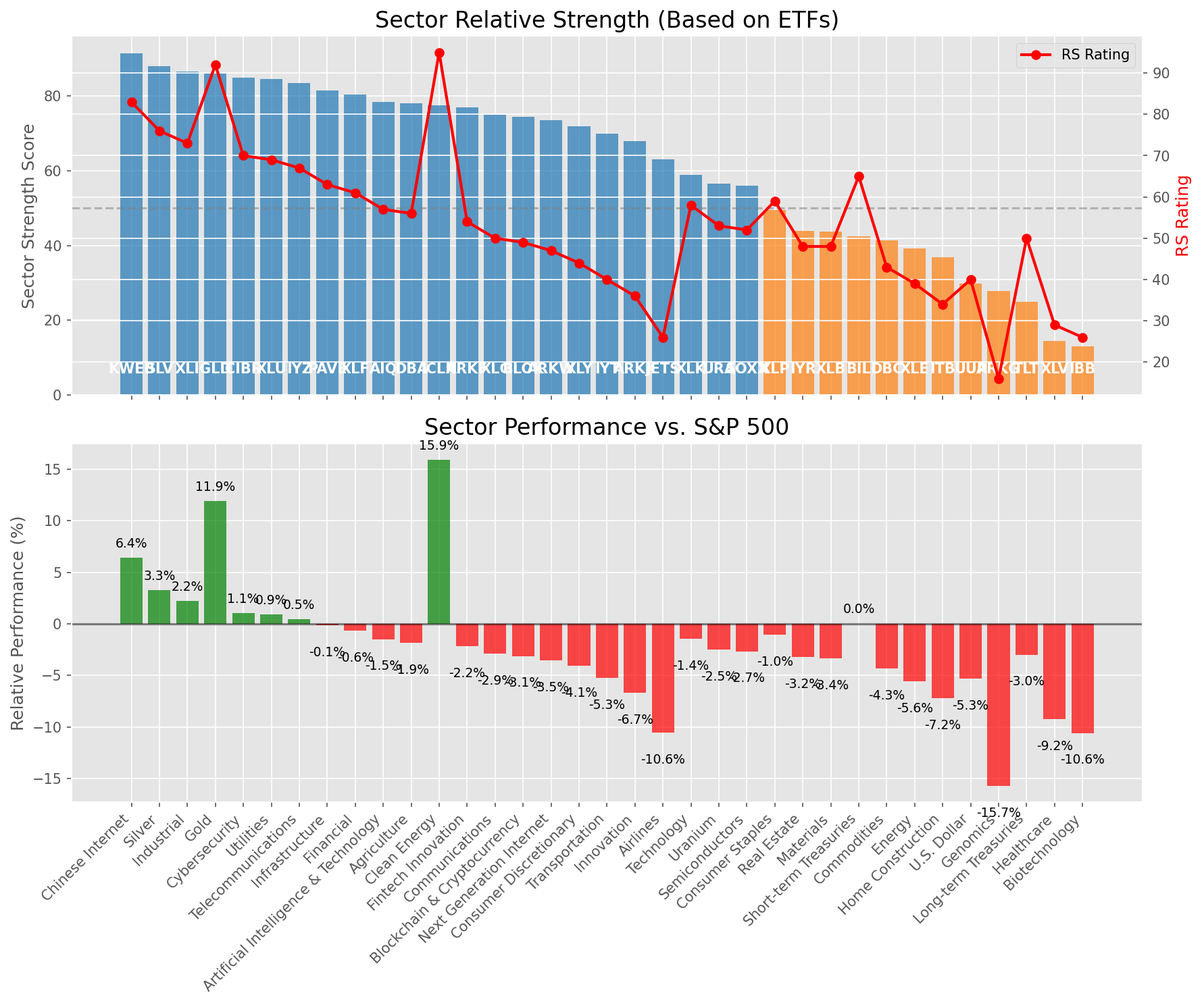
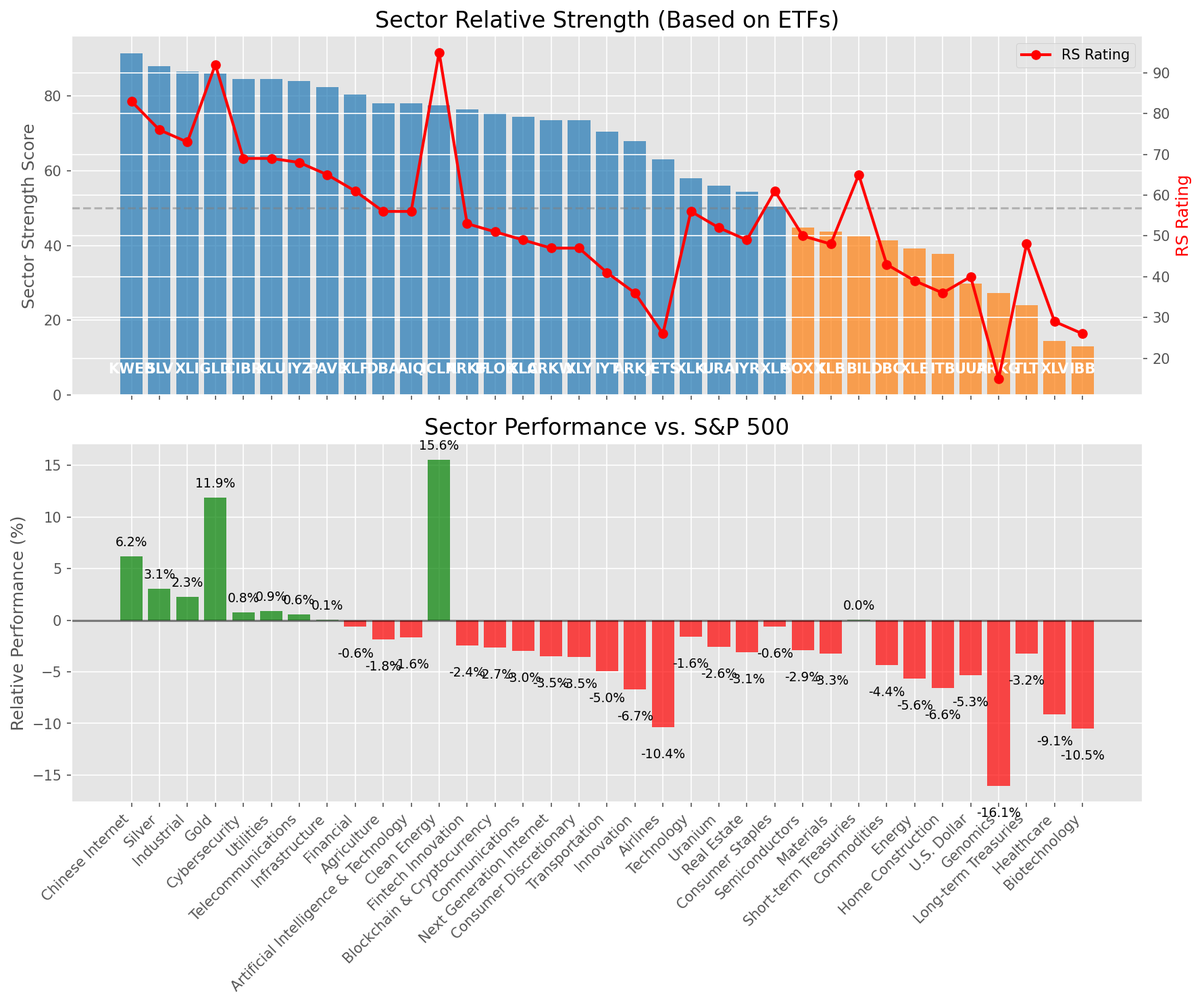
Add market report for 2025-05-13

diff --git a/oneil_relative_strength_report_2025-05-13.md b/oneil_relative_strength_report_2025-05-13.md
@@ -13,7 +13,7 @@
 | **Historical Mean** | 9.41 |
 | **Standard Deviation** | 0.51 |
 | **Z-Score (StdDev from Mean)** | 0.34 |
-| **Total Market Cap** | $289.94 trillion |
+| **Total Market Cap** | $289.74 trillion |
 | **GDP** | $29.98 trillion |
 
 ## **Market Insights**
@@ -49,41 +49,41 @@ Based on William O'Neil's Relative Strength Methodology
 
 | ETF | Strength | RS Rating | Performance | Above Key MAs | Trend | Sector |
 |-----|----------|-----------|-------------|--------------|-------|--------|
-| [KWEB](https://www.tradingview.com/chart/?symbol=KWEB) | 91.5 | 83.0 | 6.40% | 10d ✓, 50d ✓, 200d ✓ | ↗ | Chinese Internet |
-| [SLV](https://www.tradingview.com/chart/?symbol=SLV) | 88.0 | 76.0 | 3.28% | 10d ✓, 50d ✓, 200d ✓ | ↗ | Silver |
-| [XLI](https://www.tradingview.com/chart/?symbol=XLI) | 86.5 | 73.0 | 2.20% | 10d ✓, 50d ✓, 200d ✓ | ↗ | Industrial |
-| [GLD](https://www.tradingview.com/chart/?symbol=GLD) | 86.1 | 92.0 | 11.88% | 10d ✗, 50d ✓, 200d ✓ | ↗ | Gold |
-| [CIBR](https://www.tradingview.com/chart/?symbol=CIBR) | 85.0 | 70.0 | 1.05% | 10d ✓, 50d ✓, 200d ✓ | ↗ | Cybersecurity |
-| [XLU](https://www.tradingview.com/chart/?symbol=XLU) | 84.5 | 69.0 | 0.92% | 10d ✓, 50d ✓, 200d ✓ | ↗ | Utilities |
-| [IYZ](https://www.tradingview.com/chart/?symbol=IYZ) | 83.5 | 67.0 | 0.47% | 10d ✓, 50d ✓, 200d ✓ | ↗ | Telecommunications |
-| [PAVE](https://www.tradingview.com/chart/?symbol=PAVE) | 81.5 | 63.0 | -0.12% | 10d ✓, 50d ✓, 200d ✓ | ↗ | Infrastructure |
-| [XLF](https://www.tradingview.com/chart/?symbol=XLF) | 80.5 | 61.0 | -0.63% | 10d ✓, 50d ✓, 200d ✓ | ↗ | Financial |
-| [AIQ](https://www.tradingview.com/chart/?symbol=AIQ) | 78.5 | 57.0 | -1.47% | 10d ✓, 50d ✓, 200d ✓ | ↗ | Artificial Intelligence & Technology |
-| [DBA](https://www.tradingview.com/chart/?symbol=DBA) | 78.0 | 56.0 | -1.86% | 10d ✓, 50d ✓, 200d ✓ | ↗ | Agriculture |
-| [ICLN](https://www.tradingview.com/chart/?symbol=ICLN) | 77.5 | 95.0 | 15.92% | 10d ✓, 50d ✓, 200d ✓ | ↘ | Clean Energy |
-| [ARKF](https://www.tradingview.com/chart/?symbol=ARKF) | 77.0 | 54.0 | -2.19% | 10d ✓, 50d ✓, 200d ✓ | ↗ | Fintech Innovation |
-| [XLC](https://www.tradingview.com/chart/?symbol=XLC) | 75.0 | 50.0 | -2.87% | 10d ✓, 50d ✓, 200d ✓ | ↗ | Communications |
-| [BLOK](https://www.tradingview.com/chart/?symbol=BLOK) | 74.5 | 49.0 | -3.11% | 10d ✓, 50d ✓, 200d ✓ | ↗ | Blockchain & Cryptocurrency |
-| [ARKW](https://www.tradingview.com/chart/?symbol=ARKW) | 73.5 | 47.0 | -3.54% | 10d ✓, 50d ✓, 200d ✓ | ↗ | Next Generation Internet |
-| [XLY](https://www.tradingview.com/chart/?symbol=XLY) | 72.0 | 44.0 | -4.07% | 10d ✓, 50d ✓, 200d ✓ | ↗ | Consumer Discretionary |
-| [IYT](https://www.tradingview.com/chart/?symbol=IYT) | 70.0 | 40.0 | -5.27% | 10d ✓, 50d ✓, 200d ✓ | ↗ | Transportation |
-| [ARKK](https://www.tradingview.com/chart/?symbol=ARKK) | 68.0 | 36.0 | -6.68% | 10d ✓, 50d ✓, 200d ✓ | ↗ | Innovation |
-| [JETS](https://www.tradingview.com/chart/?symbol=JETS) | 63.0 | 26.0 | -10.56% | 10d ✓, 50d ✓, 200d ✓ | ↗ | Airlines |
-| [XLK](https://www.tradingview.com/chart/?symbol=XLK) | 59.0 | 58.0 | -1.42% | 10d ✓, 50d ✓, 200d ✓ | ↘ | Technology |
-| [URA](https://www.tradingview.com/chart/?symbol=URA) | 56.5 | 53.0 | -2.48% | 10d ✓, 50d ✓, 200d ✓ | ↘ | Uranium |
-| [SOXX](https://www.tradingview.com/chart/?symbol=SOXX) | 56.0 | 52.0 | -2.66% | 10d ✓, 50d ✓, 200d ✓ | ↘ | Semiconductors |
-| [XLP](https://www.tradingview.com/chart/?symbol=XLP) | 49.5 | 59.0 | -1.03% | 10d ✗, 50d ✗, 200d ✗ | ↗ | Consumer Staples |
-| [IYR](https://www.tradingview.com/chart/?symbol=IYR) | 44.0 | 48.0 | -3.21% | 10d ✗, 50d ✗, 200d ✗ | ↗ | Real Estate |
-| [XLB](https://www.tradingview.com/chart/?symbol=XLB) | 43.8 | 48.0 | -3.36% | 10d ✓, 50d ✓, 200d ✗ | ↘ | Materials |
-| [BIL](https://www.tradingview.com/chart/?symbol=BIL) | 42.4 | 65.0 | 0.02% | 10d ✓, 50d ✗, 200d ✗ | ↘ | Short-term Treasuries |
-| [DBC](https://www.tradingview.com/chart/?symbol=DBC) | 41.3 | 43.0 | -4.30% | 10d ✓, 50d ✓, 200d ✗ | ↘ | Commodities |
-| [XLE](https://www.tradingview.com/chart/?symbol=XLE) | 39.3 | 39.0 | -5.57% | 10d ✓, 50d ✓, 200d ✗ | ↘ | Energy |
-| [ITB](https://www.tradingview.com/chart/?symbol=ITB) | 36.8 | 34.0 | -7.19% | 10d ✓, 50d ✓, 200d ✗ | ↘ | Home Construction |
-| [UUP](https://www.tradingview.com/chart/?symbol=UUP) | 29.9 | 40.0 | -5.32% | 10d ✓, 50d ✗, 200d ✗ | ↘ | U.S. Dollar |
-| [ARKG](https://www.tradingview.com/chart/?symbol=ARKG) | 27.8 | 16.0 | -15.71% | 10d ✓, 50d ✓, 200d ✗ | ↘ | Genomics |
-| [TLT](https://www.tradingview.com/chart/?symbol=TLT) | 25.0 | 50.0 | -2.98% | 10d ✗, 50d ✗, 200d ✗ | ↘ | Long-term Treasuries |
-| [XLV](https://www.tradingview.com/chart/?symbol=XLV) | 14.5 | 29.0 | -9.22% | 10d ✗, 50d ✗, 200d ✗ | ↘ | Healthcare |
-| [IBB](https://www.tradingview.com/chart/?symbol=IBB) | 13.0 | 26.0 | -10.57% | 10d ✗, 50d ✗, 200d ✗ | ↘ | Biotechnology |
+| [KWEB](https://www.tradingview.com/chart/?symbol=KWEB) | 91.5 | 83.0 | 6.17% | 10d ✓, 50d ✓, 200d ✓ | ↗ | Chinese Internet |
+| [SLV](https://www.tradingview.com/chart/?symbol=SLV) | 88.0 | 76.0 | 3.07% | 10d ✓, 50d ✓, 200d ✓ | ↗ | Silver |
+| [XLI](https://www.tradingview.com/chart/?symbol=XLI) | 86.5 | 73.0 | 2.26% | 10d ✓, 50d ✓, 200d ✓ | ↗ | Industrial |
+| [GLD](https://www.tradingview.com/chart/?symbol=GLD) | 86.1 | 92.0 | 11.90% | 10d ✗, 50d ✓, 200d ✓ | ↗ | Gold |
+| [CIBR](https://www.tradingview.com/chart/?symbol=CIBR) | 84.5 | 69.0 | 0.75% | 10d ✓, 50d ✓, 200d ✓ | ↗ | Cybersecurity |
+| [XLU](https://www.tradingview.com/chart/?symbol=XLU) | 84.5 | 69.0 | 0.88% | 10d ✓, 50d ✓, 200d ✓ | ↗ | Utilities |
+| [IYZ](https://www.tradingview.com/chart/?symbol=IYZ) | 84.0 | 68.0 | 0.56% | 10d ✓, 50d ✓, 200d ✓ | ↗ | Telecommunications |
+| [PAVE](https://www.tradingview.com/chart/?symbol=PAVE) | 82.5 | 65.0 | 0.06% | 10d ✓, 50d ✓, 200d ✓ | ↗ | Infrastructure |
+| [XLF](https://www.tradingview.com/chart/?symbol=XLF) | 80.5 | 61.0 | -0.64% | 10d ✓, 50d ✓, 200d ✓ | ↗ | Financial |
+| [DBA](https://www.tradingview.com/chart/?symbol=DBA) | 78.0 | 56.0 | -1.85% | 10d ✓, 50d ✓, 200d ✓ | ↗ | Agriculture |
+| [AIQ](https://www.tradingview.com/chart/?symbol=AIQ) | 78.0 | 56.0 | -1.64% | 10d ✓, 50d ✓, 200d ✓ | ↗ | Artificial Intelligence & Technology |
+| [ICLN](https://www.tradingview.com/chart/?symbol=ICLN) | 77.5 | 95.0 | 15.56% | 10d ✓, 50d ✓, 200d ✓ | ↘ | Clean Energy |
+| [ARKF](https://www.tradingview.com/chart/?symbol=ARKF) | 76.5 | 53.0 | -2.45% | 10d ✓, 50d ✓, 200d ✓ | ↗ | Fintech Innovation |
+| [BLOK](https://www.tradingview.com/chart/?symbol=BLOK) | 75.5 | 51.0 | -2.65% | 10d ✓, 50d ✓, 200d ✓ | ↗ | Blockchain & Cryptocurrency |
+| [XLC](https://www.tradingview.com/chart/?symbol=XLC) | 74.5 | 49.0 | -3.00% | 10d ✓, 50d ✓, 200d ✓ | ↗ | Communications |
+| [ARKW](https://www.tradingview.com/chart/?symbol=ARKW) | 73.5 | 47.0 | -3.48% | 10d ✓, 50d ✓, 200d ✓ | ↗ | Next Generation Internet |
+| [XLY](https://www.tradingview.com/chart/?symbol=XLY) | 73.5 | 47.0 | -3.55% | 10d ✓, 50d ✓, 200d ✓ | ↗ | Consumer Discretionary |
+| [IYT](https://www.tradingview.com/chart/?symbol=IYT) | 70.5 | 41.0 | -4.96% | 10d ✓, 50d ✓, 200d ✓ | ↗ | Transportation |
+| [ARKK](https://www.tradingview.com/chart/?symbol=ARKK) | 68.0 | 36.0 | -6.67% | 10d ✓, 50d ✓, 200d ✓ | ↗ | Innovation |
+| [JETS](https://www.tradingview.com/chart/?symbol=JETS) | 63.0 | 26.0 | -10.37% | 10d ✓, 50d ✓, 200d ✓ | ↗ | Airlines |
+| [XLK](https://www.tradingview.com/chart/?symbol=XLK) | 58.0 | 56.0 | -1.62% | 10d ✓, 50d ✓, 200d ✓ | ↘ | Technology |
+| [URA](https://www.tradingview.com/chart/?symbol=URA) | 56.0 | 52.0 | -2.57% | 10d ✓, 50d ✓, 200d ✓ | ↘ | Uranium |
+| [IYR](https://www.tradingview.com/chart/?symbol=IYR) | 54.4 | 49.0 | -3.11% | 10d ✗, 50d ✓, 200d ✗ | ↗ | Real Estate |
+| [XLP](https://www.tradingview.com/chart/?symbol=XLP) | 50.5 | 61.0 | -0.63% | 10d ✗, 50d ✗, 200d ✗ | ↗ | Consumer Staples |
+| [SOXX](https://www.tradingview.com/chart/?symbol=SOXX) | 44.8 | 50.0 | -2.88% | 10d ✓, 50d ✓, 200d ✗ | ↘ | Semiconductors |
+| [XLB](https://www.tradingview.com/chart/?symbol=XLB) | 43.8 | 48.0 | -3.26% | 10d ✓, 50d ✓, 200d ✗ | ↘ | Materials |
+| [BIL](https://www.tradingview.com/chart/?symbol=BIL) | 42.4 | 65.0 | 0.03% | 10d ✓, 50d ✗, 200d ✗ | ↘ | Short-term Treasuries |
+| [DBC](https://www.tradingview.com/chart/?symbol=DBC) | 41.3 | 43.0 | -4.36% | 10d ✓, 50d ✓, 200d ✗ | ↘ | Commodities |
+| [XLE](https://www.tradingview.com/chart/?symbol=XLE) | 39.3 | 39.0 | -5.65% | 10d ✓, 50d ✓, 200d ✗ | ↘ | Energy |
+| [ITB](https://www.tradingview.com/chart/?symbol=ITB) | 37.8 | 36.0 | -6.60% | 10d ✓, 50d ✓, 200d ✗ | ↘ | Home Construction |
+| [UUP](https://www.tradingview.com/chart/?symbol=UUP) | 29.9 | 40.0 | -5.34% | 10d ✓, 50d ✗, 200d ✗ | ↘ | U.S. Dollar |
+| [ARKG](https://www.tradingview.com/chart/?symbol=ARKG) | 27.3 | 15.0 | -16.06% | 10d ✓, 50d ✓, 200d ✗ | ↘ | Genomics |
+| [TLT](https://www.tradingview.com/chart/?symbol=TLT) | 24.0 | 48.0 | -3.24% | 10d ✗, 50d ✗, 200d ✗ | ↘ | Long-term Treasuries |
+| [XLV](https://www.tradingview.com/chart/?symbol=XLV) | 14.5 | 29.0 | -9.09% | 10d ✗, 50d ✗, 200d ✗ | ↘ | Healthcare |
+| [IBB](https://www.tradingview.com/chart/?symbol=IBB) | 13.0 | 26.0 | -10.51% | 10d ✗, 50d ✗, 200d ✗ | ↘ | Biotechnology |
 
 ### **Sector ETF Performance Interpretation**
 
@@ -100,176 +100,172 @@ This table shows the relative strength metrics for different market sectors base
 
 The current market leadership is coming from the following sectors: **Chinese Internet, Silver, Industrial**.
 
-The **Chinese Internet** sector (represented by **KWEB**) is showing particularly strong relative strength with an RS rating of 83.0 and performance of 6.40% vs. the S&P 500. This sector is trading above its 10-day, 50-day, 200-day moving average(s). Investors should consider focusing on high RS stocks within these leading sectors for potential outperformance.
+The **Chinese Internet** sector (represented by **KWEB**) is showing particularly strong relative strength with an RS rating of 83.0 and performance of 6.17% vs. the S&P 500. This sector is trading above its 10-day, 50-day, 200-day moving average(s). Investors should consider focusing on high RS stocks within these leading sectors for potential outperformance.
 
 ---
 
 ## **Buy Recommendations**
 
-The following 76 stocks show exceptional relative strength:
+The following 77 stocks show exceptional relative strength:
 
 | RS Rating | Buy Score | Current Price | Chart | Name | Ticker |
 |-----------|-----------|---------------|-------|------|--------|
-| 100 | 100 | $27.60 | [Chart](https://www.tradingview.com/chart/?symbol=DB) | Deutsche Bank Aktiengesellschaft | DB |
+| 100 | 100 | $49.02 | [Chart](https://www.tradingview.com/chart/?symbol=MRX) | Marex Group plc Ordinary Shares | MRX |
+| 100 | 100 | $27.61 | [Chart](https://www.tradingview.com/chart/?symbol=DB) | Deutsche Bank Aktiengesellschaft | DB |
+| 100 | 100 | $91.56 | [Chart](https://www.tradingview.com/chart/?symbol=SEZL) | Sezzle Inc. Common Stock | SEZL |
+| 100 | 100 | $174.75 | [Chart](https://www.tradingview.com/chart/?symbol=DAVE) | Dave Inc. Class A Common Stock | DAVE |
+| 100 | 100 | $156.93 | [Chart](https://www.tradingview.com/chart/?symbol=NRG) | NRG Energy, Inc. | NRG |
+| 100 | 100 | $23.02 | [Chart](https://www.tradingview.com/chart/?symbol=PRA) | ProAssurance Corporation | PRA |
 | 100 | 100 | $155.30 | [Chart](https://www.tradingview.com/chart/?symbol=PLMR) | Palomar Holdings, Inc. Common stock | PLMR |
-| 100 | 100 | $176.82 | [Chart](https://www.tradingview.com/chart/?symbol=DAVE) | Dave Inc. Class A Common Stock | DAVE |
-| 100 | 100 | $93.42 | [Chart](https://www.tradingview.com/chart/?symbol=SEZL) | Sezzle Inc. Common Stock | SEZL |
-| 100 | 100 | $49.11 | [Chart](https://www.tradingview.com/chart/?symbol=MRX) | Marex Group plc Ordinary Shares | MRX |
-| 100 | 100 | $156.87 | [Chart](https://www.tradingview.com/chart/?symbol=NRG) | NRG Energy, Inc. | NRG |
-| 100 | 100 | $23.01 | [Chart](https://www.tradingview.com/chart/?symbol=PRA) | ProAssurance Corporation | PRA |
-| 99 | 100 | $152.31 | [Chart](https://www.tradingview.com/chart/?symbol=ROOT) | Root, Inc. Class A Common Stock | ROOT |
-| 99 | 100 | $417.28 | [Chart](https://www.tradingview.com/chart/?symbol=MSTR) | MicroStrategy Inc | MSTR |
-| 99 | 100 | $24.01 | [Chart](https://www.tradingview.com/chart/?symbol=CRK) | Comstock Resources, Inc. | CRK |
-| 99 | 100 | $70.07 | [Chart](https://www.tradingview.com/chart/?symbol=ULS) | UL Solutions Inc. | ULS |
-| 99 | 100 | $34.73 | [Chart](https://www.tradingview.com/chart/?symbol=AHR) | American Healthcare REIT, Inc. | AHR |
-| 99 | 100 | $24.16 | [Chart](https://www.tradingview.com/chart/?symbol=GRND) | Grindr Inc. | GRND |
+| 99 | 100 | $418.66 | [Chart](https://www.tradingview.com/chart/?symbol=MSTR) | MicroStrategy Inc | MSTR |
+| 99 | 100 | $150.44 | [Chart](https://www.tradingview.com/chart/?symbol=ROOT) | Root, Inc. Class A Common Stock | ROOT |
+| 99 | 100 | $23.86 | [Chart](https://www.tradingview.com/chart/?symbol=CRK) | Comstock Resources, Inc. | CRK |
+| 99 | 100 | $70.65 | [Chart](https://www.tradingview.com/chart/?symbol=ULS) | UL Solutions Inc. | ULS |
+| 99 | 100 | $34.66 | [Chart](https://www.tradingview.com/chart/?symbol=AHR) | American Healthcare REIT, Inc. | AHR |
+| 99 | 100 | $23.87 | [Chart](https://www.tradingview.com/chart/?symbol=GRND) | Grindr Inc. | GRND |
 | 98 | 100 | $131.44 | [Chart](https://www.tradingview.com/chart/?symbol=VSEC) | VSE Corp | VSEC |
-| 98 | 100 | $159.48 | [Chart](https://www.tradingview.com/chart/?symbol=HWM) | Howmet Aerospace Inc. | HWM |
-| 98 | 100 | $38.27 | [Chart](https://www.tradingview.com/chart/?symbol=PAY) | Paymentus Holdings, Inc. | PAY |
-| 98 | 100 | $41.15 | [Chart](https://www.tradingview.com/chart/?symbol=EWP) | iShares MSCI Spain ETF | EWP |
-| 97 | 100 | $223.76 | [Chart](https://www.tradingview.com/chart/?symbol=CRS) | Carpenter Technology Corp | CRS |
-| 97 | 100 | $128.70 | [Chart](https://www.tradingview.com/chart/?symbol=ATGE) | Adtalem Global Education Inc. Common Shares | ATGE |
-| 97 | 100 | $154.31 | [Chart](https://www.tradingview.com/chart/?symbol=SE) | Sea Limited American Depositary Shares, each representing one Class A Ordinary Share | SE |
-| 97 | 100 | $127.35 | [Chart](https://www.tradingview.com/chart/?symbol=COOP) | Mr. Cooper Group Inc. Common Stock | COOP |
-| 96 | 100 | $117.42 | [Chart](https://www.tradingview.com/chart/?symbol=EHC) | Encompass Health Corporation Common Stock | EHC |
-| 96 | 100 | $49.13 | [Chart](https://www.tradingview.com/chart/?symbol=ERJ) | Embraer S.A. | ERJ |
-| 96 | 100 | $63.01 | [Chart](https://www.tradingview.com/chart/?symbol=HOOD) | Robinhood Markets, Inc. Class A Common Stock | HOOD |
-| 96 | 100 | $30.80 | [Chart](https://www.tradingview.com/chart/?symbol=EUFN) | iShares MSCI Europe Financials ETF | EUFN |
-| 95 | 100 | $40.60 | [Chart](https://www.tradingview.com/chart/?symbol=EWG) | iShares MSCI Germany ETF | EWG |
-| 95 | 100 | $130.13 | [Chart](https://www.tradingview.com/chart/?symbol=PLTR) | Palantir Technologies Inc. Class A Common Stock | PLTR |
-| 95 | 100 | $28.02 | [Chart](https://www.tradingview.com/chart/?symbol=FMS) | Fresenius Medical Care AG | FMS |
-| 95 | 100 | $33.62 | [Chart](https://www.tradingview.com/chart/?symbol=SLM) | SLM Corporation | SLM |
-| 95 | 100 | $83.61 | [Chart](https://www.tradingview.com/chart/?symbol=RBRK) | Rubrik, Inc. | RBRK |
-| 95 | 100 | $76.69 | [Chart](https://www.tradingview.com/chart/?symbol=RBLX) | Roblox Corporation | RBLX |
-| 94 | 100 | $1145.07 | [Chart](https://www.tradingview.com/chart/?symbol=NFLX) | NetFlix Inc | NFLX |
-| 94 | 100 | $40.85 | [Chart](https://www.tradingview.com/chart/?symbol=AB) | AllianceBernstein Holding, L.P. | AB |
-| 93 | 100 | $87.00 | [Chart](https://www.tradingview.com/chart/?symbol=TGLS) | Tecnoglass Inc. | TGLS |
-| 93 | 100 | $46.55 | [Chart](https://www.tradingview.com/chart/?symbol=QFIN) | Qifu Technology, Inc. American Depositary Shares | QFIN |
-| 93 | 100 | $22.41 | [Chart](https://www.tradingview.com/chart/?symbol=LAUR) | Laureate Education, Inc. Common Stock | LAUR |
-| 93 | 100 | $61.48 | [Chart](https://www.tradingview.com/chart/?symbol=CHEF) | The Chef's Warehouse Inc | CHEF |
-| 93 | 100 | $31.62 | [Chart](https://www.tradingview.com/chart/?symbol=UTI) | Universal Technical Institute, Inc. | UTI |
-| 92 | 100 | $317.40 | [Chart](https://www.tradingview.com/chart/?symbol=PODD) | Insulet Corporation | PODD |
-| 92 | 100 | $23.87 | [Chart](https://www.tradingview.com/chart/?symbol=SRAD) | Sportradar Group AG Class A Ordinary Shares | SRAD |
-| 91 | 100 | $104.00 | [Chart](https://www.tradingview.com/chart/?symbol=RBA) | RB Global, Inc. | RBA |
-| 91 | 100 | $298.15 | [Chart](https://www.tradingview.com/chart/?symbol=PEN) | Penumbra, Inc. | PEN |
-| 91 | 100 | $17.00 | [Chart](https://www.tradingview.com/chart/?symbol=BCS) | Barclays PLC | BCS |
-| 91 | 100 | $44.77 | [Chart](https://www.tradingview.com/chart/?symbol=TOST) | Toast, Inc. | TOST |
-| 90 | 100 | $95.38 | [Chart](https://www.tradingview.com/chart/?symbol=HEES) | H&E Equipment Services, Inc. | HEES |
-| 90 | 100 | $31.26 | [Chart](https://www.tradingview.com/chart/?symbol=PRDO) | Perdoceo Education Corporation | PRDO |
-| 90 | 100 | $70.66 | [Chart](https://www.tradingview.com/chart/?symbol=BROS) | Dutch Bros Inc. | BROS |
-| 89 | 100 | $296.92 | [Chart](https://www.tradingview.com/chart/?symbol=CVNA) | Carvana Co. | CVNA |
-| 88 | 100 | $25.16 | [Chart](https://www.tradingview.com/chart/?symbol=EWS) | iShares MSCI Singapore ETF | EWS |
-| 87 | 100 | $81.26 | [Chart](https://www.tradingview.com/chart/?symbol=UNM) | Unum Group | UNM |
-| 89 | 99 | $52.07 | [Chart](https://www.tradingview.com/chart/?symbol=EPR) | EPR Properties | EPR |
+| 98 | 100 | $41.17 | [Chart](https://www.tradingview.com/chart/?symbol=EWP) | iShares MSCI Spain ETF | EWP |
+| 98 | 100 | $223.65 | [Chart](https://www.tradingview.com/chart/?symbol=CRS) | Carpenter Technology Corp | CRS |
+| 98 | 100 | $159.67 | [Chart](https://www.tradingview.com/chart/?symbol=HWM) | Howmet Aerospace Inc. | HWM |
+| 98 | 100 | $38.18 | [Chart](https://www.tradingview.com/chart/?symbol=PAY) | Paymentus Holdings, Inc. | PAY |
+| 97 | 100 | $128.01 | [Chart](https://www.tradingview.com/chart/?symbol=ATGE) | Adtalem Global Education Inc. Common Shares | ATGE |
+| 97 | 100 | $117.96 | [Chart](https://www.tradingview.com/chart/?symbol=EHC) | Encompass Health Corporation Common Stock | EHC |
+| 97 | 100 | $127.53 | [Chart](https://www.tradingview.com/chart/?symbol=COOP) | Mr. Cooper Group Inc. Common Stock | COOP |
+| 97 | 100 | $153.38 | [Chart](https://www.tradingview.com/chart/?symbol=SE) | Sea Limited American Depositary Shares, each representing one Class A Ordinary Share | SE |
+| 97 | 100 | $30.83 | [Chart](https://www.tradingview.com/chart/?symbol=EUFN) | iShares MSCI Europe Financials ETF | EUFN |
+| 96 | 100 | $62.59 | [Chart](https://www.tradingview.com/chart/?symbol=HOOD) | Robinhood Markets, Inc. Class A Common Stock | HOOD |
+| 96 | 100 | $49.24 | [Chart](https://www.tradingview.com/chart/?symbol=ERJ) | Embraer S.A. | ERJ |
+| 95 | 100 | $40.62 | [Chart](https://www.tradingview.com/chart/?symbol=EWG) | iShares MSCI Germany ETF | EWG |
+| 95 | 100 | $129.18 | [Chart](https://www.tradingview.com/chart/?symbol=PLTR) | Palantir Technologies Inc. Class A Common Stock | PLTR |
+| 95 | 100 | $28.05 | [Chart](https://www.tradingview.com/chart/?symbol=FMS) | Fresenius Medical Care AG | FMS |
+| 95 | 100 | $33.65 | [Chart](https://www.tradingview.com/chart/?symbol=SLM) | SLM Corporation | SLM |
+| 95 | 100 | $129.04 | [Chart](https://www.tradingview.com/chart/?symbol=HIG) | The Hartford Insurance Group, Inc. | HIG |
+| 95 | 100 | $76.45 | [Chart](https://www.tradingview.com/chart/?symbol=RBLX) | Roblox Corporation | RBLX |
+| 94 | 100 | $40.84 | [Chart](https://www.tradingview.com/chart/?symbol=AB) | AllianceBernstein Holding, L.P. | AB |
+| 94 | 100 | $83.03 | [Chart](https://www.tradingview.com/chart/?symbol=RBRK) | Rubrik, Inc. | RBRK |
+| 94 | 100 | $61.83 | [Chart](https://www.tradingview.com/chart/?symbol=CHEF) | The Chef's Warehouse Inc | CHEF |
+| 93 | 100 | $22.49 | [Chart](https://www.tradingview.com/chart/?symbol=LAUR) | Laureate Education, Inc. Common Stock | LAUR |
+| 93 | 100 | $46.51 | [Chart](https://www.tradingview.com/chart/?symbol=QFIN) | Qifu Technology, Inc. American Depositary Shares | QFIN |
+| 93 | 100 | $87.41 | [Chart](https://www.tradingview.com/chart/?symbol=TGLS) | Tecnoglass Inc. | TGLS |
+| 93 | 100 | $1141.06 | [Chart](https://www.tradingview.com/chart/?symbol=NFLX) | NetFlix Inc | NFLX |
+| 92 | 100 | $300.56 | [Chart](https://www.tradingview.com/chart/?symbol=PEN) | Penumbra, Inc. | PEN |
+| 92 | 100 | $31.41 | [Chart](https://www.tradingview.com/chart/?symbol=UTI) | Universal Technical Institute, Inc. | UTI |
+| 91 | 100 | $316.02 | [Chart](https://www.tradingview.com/chart/?symbol=PODD) | Insulet Corporation | PODD |
+| 91 | 100 | $23.68 | [Chart](https://www.tradingview.com/chart/?symbol=SRAD) | Sportradar Group AG Class A Ordinary Shares | SRAD |
+| 91 | 100 | $17.01 | [Chart](https://www.tradingview.com/chart/?symbol=BCS) | Barclays PLC | BCS |
+| 91 | 100 | $44.37 | [Chart](https://www.tradingview.com/chart/?symbol=TOST) | Toast, Inc. | TOST |
+| 91 | 100 | $104.31 | [Chart](https://www.tradingview.com/chart/?symbol=RBA) | RB Global, Inc. | RBA |
+| 90 | 100 | $31.30 | [Chart](https://www.tradingview.com/chart/?symbol=PRDO) | Perdoceo Education Corporation | PRDO |
+| 90 | 100 | $70.50 | [Chart](https://www.tradingview.com/chart/?symbol=BROS) | Dutch Bros Inc. | BROS |
+| 89 | 100 | $95.34 | [Chart](https://www.tradingview.com/chart/?symbol=HEES) | H&E Equipment Services, Inc. | HEES |
+| 88 | 100 | $729.92 | [Chart](https://www.tradingview.com/chart/?symbol=AXON) | Axon Enterprise, Inc. Common Stock | AXON |
+| 88 | 100 | $25.17 | [Chart](https://www.tradingview.com/chart/?symbol=EWS) | iShares MSCI Singapore ETF | EWS |
+| 89 | 99 | $52.13 | [Chart](https://www.tradingview.com/chart/?symbol=EPR) | EPR Properties | EPR |
+| 88 | 99 | $296.48 | [Chart](https://www.tradingview.com/chart/?symbol=CVNA) | Carvana Co. | CVNA |
 | 87 | 99 | $195.73 | [Chart](https://www.tradingview.com/chart/?symbol=LOPE) | Grand Canyon Education, Inc | LOPE |
-| 87 | 99 | $725.67 | [Chart](https://www.tradingview.com/chart/?symbol=AXON) | Axon Enterprise, Inc. Common Stock | AXON |
-| 89 | 98 | $29.41 | [Chart](https://www.tradingview.com/chart/?symbol=HODL) | VanEck Bitcoin ETF | HODL |
-| 89 | 98 | $59.10 | [Chart](https://www.tradingview.com/chart/?symbol=IBIT) | iShares Bitcoin Trust ETF | IBIT |
-| 88 | 98 | $17.56 | [Chart](https://www.tradingview.com/chart/?symbol=MIR) | Mirion Technologies, Inc. | MIR |
-| 87 | 97 | $13.32 | [Chart](https://www.tradingview.com/chart/?symbol=CNH) | CNH INDUSTRIAL N.V. | CNH |
-| 87 | 97 | $63.41 | [Chart](https://www.tradingview.com/chart/?symbol=GGAL) | Grupo Financiero Galicia SA | GGAL |
-| 86 | 97 | $67.91 | [Chart](https://www.tradingview.com/chart/?symbol=CTVA) | Corteva, Inc. Common Stock | CTVA |
-| 85 | 97 | $58.49 | [Chart](https://www.tradingview.com/chart/?symbol=HSBC) | HSBC Holdings PLC | HSBC |
-| 86 | 96 | $35.90 | [Chart](https://www.tradingview.com/chart/?symbol=FXI) | iShares China Large-Cap ETF | FXI |
-| 85 | 95 | $5265.94 | [Chart](https://www.tradingview.com/chart/?symbol=BKNG) | Booking Holdings Inc. Common Stock | BKNG |
-| 84 | 95 | $23.46 | [Chart](https://www.tradingview.com/chart/?symbol=BTSG) | BrightSpring Health Services, Inc. Common Stock | BTSG |
-| 84 | 95 | $203.25 | [Chart](https://www.tradingview.com/chart/?symbol=BAP) | Credicorp LTD | BAP |
-| 84 | 95 | $74.58 | [Chart](https://www.tradingview.com/chart/?symbol=USFD) | US Foods Holding Corp. | USFD |
-| 83 | 95 | $206.28 | [Chart](https://www.tradingview.com/chart/?symbol=DRI) | Darden Restaurants, Inc. | DRI |
-| 83 | 94 | $167.46 | [Chart](https://www.tradingview.com/chart/?symbol=ITA) | iShares U.S. Aerospace & Defense ETF | ITA |
-| 83 | 94 | $221.87 | [Chart](https://www.tradingview.com/chart/?symbol=GE) | GE Aerospace | GE |
-| 83 | 94 | $31.32 | [Chart](https://www.tradingview.com/chart/?symbol=AS) | Amer Sports, Inc. | AS |
-| 84 | 93 | $30.06 | [Chart](https://www.tradingview.com/chart/?symbol=TGS) | Transportadora de Gas del Sur S.A. ADS | TGS |
-| 80 | 93 | $217.54 | [Chart](https://www.tradingview.com/chart/?symbol=IDCC) | InterDigital, Inc. | IDCC |
-| 82 | 92 | $57.31 | [Chart](https://www.tradingview.com/chart/?symbol=IGF) | iShares Global Infrastructure ETF | IGF |
-| 81 | 92 | $205.36 | [Chart](https://www.tradingview.com/chart/?symbol=DFS) | Discover Financial Services | DFS |
-| 82 | 91 | $22.33 | [Chart](https://www.tradingview.com/chart/?symbol=KAR) | OPENLANE, Inc | KAR |
-| 81 | 91 | $13.07 | [Chart](https://www.tradingview.com/chart/?symbol=MUFG) | Mitsubishi UFJ Financial Group, Inc. | MUFG |
-| 80 | 90 | $58.49 | [Chart](https://www.tradingview.com/chart/?symbol=BAM) | Brookfield Asset Management Ltd. | BAM |
+| 86 | 99 | $81.10 | [Chart](https://www.tradingview.com/chart/?symbol=UNM) | Unum Group | UNM |
+| 89 | 98 | $59.35 | [Chart](https://www.tradingview.com/chart/?symbol=IBIT) | iShares Bitcoin Trust ETF | IBIT |
+| 89 | 98 | $29.53 | [Chart](https://www.tradingview.com/chart/?symbol=HODL) | VanEck Bitcoin ETF | HODL |
+| 87 | 98 | $68.14 | [Chart](https://www.tradingview.com/chart/?symbol=CTVA) | Corteva, Inc. Common Stock | CTVA |
+| 87 | 97 | $13.31 | [Chart](https://www.tradingview.com/chart/?symbol=CNH) | CNH INDUSTRIAL N.V. | CNH |
+| 87 | 97 | $17.53 | [Chart](https://www.tradingview.com/chart/?symbol=MIR) | Mirion Technologies, Inc. | MIR |
+| 86 | 97 | $206.05 | [Chart](https://www.tradingview.com/chart/?symbol=BAP) | Credicorp LTD | BAP |
+| 86 | 96 | $35.88 | [Chart](https://www.tradingview.com/chart/?symbol=FXI) | iShares China Large-Cap ETF | FXI |
+| 86 | 96 | $5293.07 | [Chart](https://www.tradingview.com/chart/?symbol=BKNG) | Booking Holdings Inc. Common Stock | BKNG |
+| 84 | 96 | $58.40 | [Chart](https://www.tradingview.com/chart/?symbol=HSBC) | HSBC Holdings PLC | HSBC |
+| 83 | 96 | $220.83 | [Chart](https://www.tradingview.com/chart/?symbol=IDCC) | InterDigital, Inc. | IDCC |
+| 85 | 95 | $62.78 | [Chart](https://www.tradingview.com/chart/?symbol=GGAL) | Grupo Financiero Galicia SA | GGAL |
+| 84 | 95 | $23.50 | [Chart](https://www.tradingview.com/chart/?symbol=BTSG) | BrightSpring Health Services, Inc. Common Stock | BTSG |
+| 84 | 95 | $74.57 | [Chart](https://www.tradingview.com/chart/?symbol=USFD) | US Foods Holding Corp. | USFD |
+| 83 | 95 | $206.40 | [Chart](https://www.tradingview.com/chart/?symbol=DRI) | Darden Restaurants, Inc. | DRI |
+| 83 | 94 | $167.29 | [Chart](https://www.tradingview.com/chart/?symbol=ITA) | iShares U.S. Aerospace & Defense ETF | ITA |
+| 82 | 93 | $221.23 | [Chart](https://www.tradingview.com/chart/?symbol=GE) | GE Aerospace | GE |
+| 82 | 93 | $31.22 | [Chart](https://www.tradingview.com/chart/?symbol=AS) | Amer Sports, Inc. | AS |
+| 82 | 92 | $57.28 | [Chart](https://www.tradingview.com/chart/?symbol=IGF) | iShares Global Infrastructure ETF | IGF |
+| 82 | 91 | $22.36 | [Chart](https://www.tradingview.com/chart/?symbol=KAR) | OPENLANE, Inc | KAR |
+| 82 | 91 | $29.80 | [Chart](https://www.tradingview.com/chart/?symbol=TGS) | Transportadora de Gas del Sur S.A. ADS | TGS |
+| 81 | 91 | $58.61 | [Chart](https://www.tradingview.com/chart/?symbol=BAM) | Brookfield Asset Management Ltd. | BAM |
+| 80 | 91 | $204.42 | [Chart](https://www.tradingview.com/chart/?symbol=DFS) | Discover Financial Services | DFS |
+| 80 | 90 | $13.07 | [Chart](https://www.tradingview.com/chart/?symbol=MUFG) | Mitsubishi UFJ Financial Group, Inc. | MUFG |
 
 ---
 
 
 ## **Sell Recommendations**
 
-The following 74 stocks show deteriorating relative strength:
+The following 69 stocks show deteriorating relative strength:
 
 | RS Rating | Sell Score | Current Price | Chart | Name | Ticker |
 |-----------|------------|---------------|-------|------|--------|
 | 1 | 100 | $10.18 | [Chart](https://www.tradingview.com/chart/?symbol=NRIX) | Nurix Therapeutics, Inc. Common stock | NRIX |
-| 1 | 100 | $19.40 | [Chart](https://www.tradingview.com/chart/?symbol=BHVN) | Biohaven Ltd. | BHVN |
-| 3 | 100 | $13.04 | [Chart](https://www.tradingview.com/chart/?symbol=MNRO) | Monro, Inc. Common Stock | MNRO |
-| 3 | 100 | $13.18 | [Chart](https://www.tradingview.com/chart/?symbol=FL) | Foot Locker, Inc. | FL |
-| 4 | 100 | $10.79 | [Chart](https://www.tradingview.com/chart/?symbol=LSPD) | Lightspeed Commerce Inc. | LSPD |
-| 4 | 100 | $12.20 | [Chart](https://www.tradingview.com/chart/?symbol=ARCT) | Arcturus Therapeutics Holdings Inc. Common Stock | ARCT |
-| 4 | 100 | $30.32 | [Chart](https://www.tradingview.com/chart/?symbol=CRTO) | Criteo S.A. | CRTO |
-| 4 | 100 | $27.39 | [Chart](https://www.tradingview.com/chart/?symbol=JACK) | Jack in the Box Inc. | JACK |
+| 1 | 100 | $19.39 | [Chart](https://www.tradingview.com/chart/?symbol=BHVN) | Biohaven Ltd. | BHVN |
+| 2 | 100 | $12.90 | [Chart](https://www.tradingview.com/chart/?symbol=MNRO) | Monro, Inc. Common Stock | MNRO |
+| 3 | 100 | $13.13 | [Chart](https://www.tradingview.com/chart/?symbol=FL) | Foot Locker, Inc. | FL |
+| 4 | 100 | $10.76 | [Chart](https://www.tradingview.com/chart/?symbol=LSPD) | Lightspeed Commerce Inc. | LSPD |
+| 4 | 100 | $10.30 | [Chart](https://www.tradingview.com/chart/?symbol=HPK) | HighPeak Energy, Inc. Common Stock | HPK |
+| 4 | 100 | $30.10 | [Chart](https://www.tradingview.com/chart/?symbol=CRTO) | Criteo S.A. | CRTO |
+| 4 | 100 | $12.10 | [Chart](https://www.tradingview.com/chart/?symbol=ARCT) | Arcturus Therapeutics Holdings Inc. Common Stock | ARCT |
 | 5 | 100 | $28.01 | [Chart](https://www.tradingview.com/chart/?symbol=SRDX) | Surmodics, Inc. Common Stock | SRDX |
-| 5 | 100 | $33.15 | [Chart](https://www.tradingview.com/chart/?symbol=AAP) | ADVANCE AUTO PARTS INC | AAP |
-| 5 | 100 | $10.38 | [Chart](https://www.tradingview.com/chart/?symbol=HPK) | HighPeak Energy, Inc. Common Stock | HPK |
-| 5 | 100 | $12.73 | [Chart](https://www.tradingview.com/chart/?symbol=LBRT) | Liberty Energy Inc. | LBRT |
-| 5 | 100 | $26.81 | [Chart](https://www.tradingview.com/chart/?symbol=TRN) | Trinity Industries, Inc. | TRN |
-| 6 | 100 | $30.80 | [Chart](https://www.tradingview.com/chart/?symbol=CYTK) | Cytokinetics Inc. | CYTK |
-| 6 | 100 | $14.04 | [Chart](https://www.tradingview.com/chart/?symbol=IMVT) | Immunovant, Inc. Common Stock | IMVT |
-| 7 | 100 | $129.24 | [Chart](https://www.tradingview.com/chart/?symbol=TFX) | Teleflex Incorporated | TFX |
-| 11 | 100 | $47.79 | [Chart](https://www.tradingview.com/chart/?symbol=RHI) | Robert Half Inc. | RHI |
-| 14 | 100 | $10.34 | [Chart](https://www.tradingview.com/chart/?symbol=CMRE) | Costamare Inc. | CMRE |
-| 14 | 100 | $19.35 | [Chart](https://www.tradingview.com/chart/?symbol=NVDS) | Investment Managers Series Trust II Tradr 1.5X Short NVDA Daily ETF | NVDS |
-| 19 | 100 | $13.12 | [Chart](https://www.tradingview.com/chart/?symbol=MED) | Medifast, Inc. | MED |
-| 5 | 99 | $32.57 | [Chart](https://www.tradingview.com/chart/?symbol=TWST) | Twist Bioscience Corporation Common Stock | TWST |
-| 9 | 99 | $10.03 | [Chart](https://www.tradingview.com/chart/?symbol=MTAL) | MAC Copper Limited | MTAL |
-| 13 | 99 | $17.58 | [Chart](https://www.tradingview.com/chart/?symbol=IDYA) | IDEAYA Biosciences, Inc. Common Stock | IDYA |
+| 5 | 100 | $12.78 | [Chart](https://www.tradingview.com/chart/?symbol=LBRT) | Liberty Energy Inc. | LBRT |
+| 5 | 100 | $33.26 | [Chart](https://www.tradingview.com/chart/?symbol=AAP) | ADVANCE AUTO PARTS INC | AAP |
+| 5 | 100 | $26.84 | [Chart](https://www.tradingview.com/chart/?symbol=TRN) | Trinity Industries, Inc. | TRN |
+| 6 | 100 | $127.08 | [Chart](https://www.tradingview.com/chart/?symbol=TFX) | Teleflex Incorporated | TFX |
+| 6 | 100 | $14.17 | [Chart](https://www.tradingview.com/chart/?symbol=IMVT) | Immunovant, Inc. Common Stock | IMVT |
+| 6 | 100 | $31.00 | [Chart](https://www.tradingview.com/chart/?symbol=CYTK) | Cytokinetics Inc. | CYTK |
+| 11 | 100 | $47.78 | [Chart](https://www.tradingview.com/chart/?symbol=RHI) | Robert Half Inc. | RHI |
+| 15 | 100 | $10.34 | [Chart](https://www.tradingview.com/chart/?symbol=CMRE) | Costamare Inc. | CMRE |
+| 15 | 100 | $19.55 | [Chart](https://www.tradingview.com/chart/?symbol=NVDS) | Investment Managers Series Trust II Tradr 1.5X Short NVDA Daily ETF | NVDS |
+| 18 | 100 | $13.06 | [Chart](https://www.tradingview.com/chart/?symbol=MED) | Medifast, Inc. | MED |
+| 5 | 99 | $32.56 | [Chart](https://www.tradingview.com/chart/?symbol=TWST) | Twist Bioscience Corporation Common Stock | TWST |
 | 5 | 98 | $10.31 | [Chart](https://www.tradingview.com/chart/?symbol=VREX) | Varex Imaging Corporation Common Stock | VREX |
+| 13 | 98 | $17.53 | [Chart](https://www.tradingview.com/chart/?symbol=IDYA) | IDEAYA Biosciences, Inc. Common Stock | IDYA |
 | 8 | 96 | $32.55 | [Chart](https://www.tradingview.com/chart/?symbol=MBIN) | Merchants Bancorp Common Stock | MBIN |
-| 12 | 95 | $16.18 | [Chart](https://www.tradingview.com/chart/?symbol=CHCT) | Community Healthcare Trust Incorporated Common Stock, $0.01 par value per share | CHCT |
+| 13 | 96 | $10.00 | [Chart](https://www.tradingview.com/chart/?symbol=MTAL) | MAC Copper Limited | MTAL |
+| 15 | 96 | $13.25 | [Chart](https://www.tradingview.com/chart/?symbol=ZUMZ) | Zumiez Inc. | ZUMZ |
 | 19 | 95 | $36.20 | [Chart](https://www.tradingview.com/chart/?symbol=SLB) | Schlumberger Limited | SLB |
-| 22 | 95 | $28.79 | [Chart](https://www.tradingview.com/chart/?symbol=AGIO) | Agios Pharmaceuticals, Inc. | AGIO |
-| 9 | 94 | $34.56 | [Chart](https://www.tradingview.com/chart/?symbol=TECS) | Direxion Daily Technology Bear 3x Shares | TECS |
-| 16 | 93 | $13.31 | [Chart](https://www.tradingview.com/chart/?symbol=ZUMZ) | Zumiez Inc. | ZUMZ |
-| 17 | 93 | $53.19 | [Chart](https://www.tradingview.com/chart/?symbol=ERX) | Direxion Daily Energy Bull 2X Shares | ERX |
-| 11 | 92 | $11.10 | [Chart](https://www.tradingview.com/chart/?symbol=ABR) | Arbor Realty Trust, Inc. | ABR |
-| 10 | 91 | $52.70 | [Chart](https://www.tradingview.com/chart/?symbol=PRCT) | PROCEPT BioRobotics Corporation Common Stock | PRCT |
-| 12 | 91 | $12.38 | [Chart](https://www.tradingview.com/chart/?symbol=APLE) | Apple Hospitality REIT, Inc. | APLE |
+| 22 | 95 | $28.72 | [Chart](https://www.tradingview.com/chart/?symbol=AGIO) | Agios Pharmaceuticals, Inc. | AGIO |
+| 12 | 94 | $16.28 | [Chart](https://www.tradingview.com/chart/?symbol=CHCT) | Community Healthcare Trust Incorporated Common Stock, $0.01 par value per share | CHCT |
+| 9 | 93 | $34.80 | [Chart](https://www.tradingview.com/chart/?symbol=TECS) | Direxion Daily Technology Bear 3x Shares | TECS |
+| 11 | 92 | $12.32 | [Chart](https://www.tradingview.com/chart/?symbol=APLE) | Apple Hospitality REIT, Inc. | APLE |
+| 17 | 92 | $53.09 | [Chart](https://www.tradingview.com/chart/?symbol=ERX) | Direxion Daily Energy Bull 2X Shares | ERX |
+| 18 | 91 | $19.36 | [Chart](https://www.tradingview.com/chart/?symbol=AAT) | AMERICAN ASSETS TRUST, INC. | AAT |
 | 15 | 90 | $12.02 | [Chart](https://www.tradingview.com/chart/?symbol=WEN) | The Wendy's Company | WEN |
-| 11 | 89 | $14.91 | [Chart](https://www.tradingview.com/chart/?symbol=INMD) | InMode Ltd. Ordinary Shares | INMD |
-| 17 | 89 | $84.73 | [Chart](https://www.tradingview.com/chart/?symbol=WHR) | Whirlpool Corp. | WHR |
-| 20 | 88 | $20.36 | [Chart](https://www.tradingview.com/chart/?symbol=BITI) | ProShares Short Bitcoin ETF | BITI |
-| 22 | 88 | $51.67 | [Chart](https://www.tradingview.com/chart/?symbol=LW) | Lamb Weston Holdings, Inc. | LW |
-| 20 | 87 | $12.76 | [Chart](https://www.tradingview.com/chart/?symbol=DBO) | Invesco DB Oil Fund | DBO |
-| 20 | 86 | $19.55 | [Chart](https://www.tradingview.com/chart/?symbol=AAT) | AMERICAN ASSETS TRUST, INC. | AAT |
+| 11 | 89 | $53.05 | [Chart](https://www.tradingview.com/chart/?symbol=PRCT) | PROCEPT BioRobotics Corporation Common Stock | PRCT |
+| 11 | 89 | $14.93 | [Chart](https://www.tradingview.com/chart/?symbol=INMD) | InMode Ltd. Ordinary Shares | INMD |
+| 19 | 89 | $20.28 | [Chart](https://www.tradingview.com/chart/?symbol=BITI) | ProShares Short Bitcoin ETF | BITI |
+| 17 | 88 | $84.55 | [Chart](https://www.tradingview.com/chart/?symbol=WHR) | Whirlpool Corp. | WHR |
+| 22 | 88 | $51.59 | [Chart](https://www.tradingview.com/chart/?symbol=LW) | Lamb Weston Holdings, Inc. | LW |
 | 20 | 85 | $36.54 | [Chart](https://www.tradingview.com/chart/?symbol=BHE) | Benchmark Electronics | BHE |
 | 20 | 84 | $10.54 | [Chart](https://www.tradingview.com/chart/?symbol=AVO) | Mission Produce, Inc. Common Stock | AVO |
-| 26 | 83 | $31.07 | [Chart](https://www.tradingview.com/chart/?symbol=LEGN) | Legend Biotech Corporation American Depositary Shares | LEGN |
-| 31 | 83 | $31.18 | [Chart](https://www.tradingview.com/chart/?symbol=ZSL) | ProShares UltraShort Silver | ZSL |
-| 33 | 82 | $64.60 | [Chart](https://www.tradingview.com/chart/?symbol=ZROZ) | PIMCO 25+ Year Zero Coupon U.S. Treasury Index Exchange-Traded Fund | ZROZ |
-| 19 | 81 | $15.53 | [Chart](https://www.tradingview.com/chart/?symbol=BCSF) | Bain Capital Specialty Finance, Inc. | BCSF |
-| 22 | 81 | $14.64 | [Chart](https://www.tradingview.com/chart/?symbol=RYLD) | Global X Russell 2000 Covered Call ETF | RYLD |
-| 27 | 80 | $112.53 | [Chart](https://www.tradingview.com/chart/?symbol=LEN) | Lennar Corporation Class A | LEN |
-| 31 | 80 | $235.80 | [Chart](https://www.tradingview.com/chart/?symbol=HUM) | Humana Inc. | HUM |
+| 25 | 83 | $13.09 | [Chart](https://www.tradingview.com/chart/?symbol=DBO) | Invesco DB Oil Fund | DBO |
+| 31 | 83 | $31.30 | [Chart](https://www.tradingview.com/chart/?symbol=ZSL) | ProShares UltraShort Silver | ZSL |
+| 32 | 83 | $64.26 | [Chart](https://www.tradingview.com/chart/?symbol=ZROZ) | PIMCO 25+ Year Zero Coupon U.S. Treasury Index Exchange-Traded Fund | ZROZ |
+| 39 | 83 | $28.30 | [Chart](https://www.tradingview.com/chart/?symbol=IMCR) | Immunocore Holdings plc American Depositary Shares | IMCR |
+| 26 | 82 | $31.00 | [Chart](https://www.tradingview.com/chart/?symbol=LEGN) | Legend Biotech Corporation American Depositary Shares | LEGN |
+| 29 | 81 | $234.16 | [Chart](https://www.tradingview.com/chart/?symbol=HUM) | Humana Inc. | HUM |
+| 22 | 80 | $14.64 | [Chart](https://www.tradingview.com/chart/?symbol=RYLD) | Global X Russell 2000 Covered Call ETF | RYLD |
 | 22 | 79 | $16.41 | [Chart](https://www.tradingview.com/chart/?symbol=QYLD) | Global X Funds Global X NASDAQ-100 Covered Call ETF | QYLD |
-| 24 | 79 | $31.75 | [Chart](https://www.tradingview.com/chart/?symbol=KRC) | Kilroy Realty Corp. | KRC |
-| 29 | 79 | $53.92 | [Chart](https://www.tradingview.com/chart/?symbol=GIS) | General Mills, Inc. | GIS |
-| 34 | 79 | $25.36 | [Chart](https://www.tradingview.com/chart/?symbol=RCI) | Rogers Communications, Inc. | RCI |
-| 28 | 78 | $10.69 | [Chart](https://www.tradingview.com/chart/?symbol=SCS) | Steelcase, Inc. | SCS |
-| 34 | 78 | $136.25 | [Chart](https://www.tradingview.com/chart/?symbol=HES) | Hess Corporation | HES |
-| 29 | 77 | $14.69 | [Chart](https://www.tradingview.com/chart/?symbol=HR) | Healthcare Realty Trust Incorporated | HR |
-| 32 | 77 | $13.94 | [Chart](https://www.tradingview.com/chart/?symbol=BSM) | Black Stone Minerals, L.P. | BSM |
-| 29 | 76 | $14.45 | [Chart](https://www.tradingview.com/chart/?symbol=BMEZ) | BlackRock Health Sciences Term Trust | BMEZ |
-| 39 | 76 | $59.98 | [Chart](https://www.tradingview.com/chart/?symbol=BMRN) | BioMarin Pharmaceuticals Inc | BMRN |
-| 39 | 76 | $10.88 | [Chart](https://www.tradingview.com/chart/?symbol=LBTYA) | Liberty Global Ltd. Class A Common Shares | LBTYA |
-| 29 | 74 | $17.67 | [Chart](https://www.tradingview.com/chart/?symbol=MLNK) | MeridianLink, Inc. | MLNK |
-| 35 | 74 | $35.33 | [Chart](https://www.tradingview.com/chart/?symbol=CPB) | The Campbell's Company Common Stock | CPB |
-| 35 | 73 | $35.25 | [Chart](https://www.tradingview.com/chart/?symbol=NSA) | National Storage Affiliates Trust | NSA |
-| 28 | 72 | $142.75 | [Chart](https://www.tradingview.com/chart/?symbol=CVX) | Chevron Corporation | CVX |
-| 30 | 72 | $10.74 | [Chart](https://www.tradingview.com/chart/?symbol=LADR) | LADDER CAPITAL CORP | LADR |
+| 24 | 79 | $31.82 | [Chart](https://www.tradingview.com/chart/?symbol=KRC) | Kilroy Realty Corp. | KRC |
+| 34 | 79 | $25.45 | [Chart](https://www.tradingview.com/chart/?symbol=RCI) | Rogers Communications, Inc. | RCI |
+| 30 | 78 | $54.12 | [Chart](https://www.tradingview.com/chart/?symbol=GIS) | General Mills, Inc. | GIS |
+| 31 | 78 | $13.89 | [Chart](https://www.tradingview.com/chart/?symbol=BSM) | Black Stone Minerals, L.P. | BSM |
+| 34 | 78 | $136.15 | [Chart](https://www.tradingview.com/chart/?symbol=HES) | Hess Corporation | HES |
+| 29 | 77 | $14.67 | [Chart](https://www.tradingview.com/chart/?symbol=HR) | Healthcare Realty Trust Incorporated | HR |
+| 38 | 77 | $10.88 | [Chart](https://www.tradingview.com/chart/?symbol=LBTYA) | Liberty Global Ltd. Class A Common Shares | LBTYA |
+| 27 | 76 | $14.23 | [Chart](https://www.tradingview.com/chart/?symbol=EIC) | Eagle Point Income Company Inc. | EIC |
+| 30 | 75 | $14.50 | [Chart](https://www.tradingview.com/chart/?symbol=BMEZ) | BlackRock Health Sciences Term Trust | BMEZ |
+| 30 | 75 | $10.76 | [Chart](https://www.tradingview.com/chart/?symbol=SCS) | Steelcase, Inc. | SCS |
+| 28 | 72 | $142.59 | [Chart](https://www.tradingview.com/chart/?symbol=CVX) | Chevron Corporation | CVX |
+| 30 | 72 | $10.77 | [Chart](https://www.tradingview.com/chart/?symbol=LADR) | LADDER CAPITAL CORP | LADR |
+| 36 | 72 | $35.43 | [Chart](https://www.tradingview.com/chart/?symbol=CPB) | The Campbell's Company Common Stock | CPB |
+| 36 | 71 | $35.41 | [Chart](https://www.tradingview.com/chart/?symbol=NSA) | National Storage Affiliates Trust | NSA |
 | 35 | 70 | $17.72 | [Chart](https://www.tradingview.com/chart/?symbol=JPMpM) | JPMorgan Chase & Co. Depositary Shares, each representing a 1/400th interest in a share of 4.20% Non-Cumulative Preferred Stock, Series MM | JPMpM |
-| 37 | 68 | $11.27 | [Chart](https://www.tradingview.com/chart/?symbol=MQY) | Blackrock Muni Yield Quality Fund, Inc | MQY |
-| 38 | 68 | $10.55 | [Chart](https://www.tradingview.com/chart/?symbol=NMZ) | Nuveen Municipal High Income Opportunity Fund | NMZ |
-| 35 | 67 | $25.86 | [Chart](https://www.tradingview.com/chart/?symbol=IRDM) | Iridium Communications Inc. | IRDM |
-| 39 | 67 | $28.97 | [Chart](https://www.tradingview.com/chart/?symbol=QID) | ProShares UltraShort QQQ | QID |
-| 39 | 67 | $51.76 | [Chart](https://www.tradingview.com/chart/?symbol=TSCO) | Tractor Supply Co | TSCO |
-| 36 | 64 | $157.82 | [Chart](https://www.tradingview.com/chart/?symbol=PG) | Procter & Gamble Company | PG |
-| 38 | 64 | $11.97 | [Chart](https://www.tradingview.com/chart/?symbol=NVG) | Nuveen AMT-Free Municipal Credit Income Fund | NVG |
+| 37 | 69 | $11.25 | [Chart](https://www.tradingview.com/chart/?symbol=MQY) | Blackrock Muni Yield Quality Fund, Inc | MQY |
+| 34 | 68 | $25.80 | [Chart](https://www.tradingview.com/chart/?symbol=IRDM) | Iridium Communications Inc. | IRDM |
+| 37 | 68 | $10.54 | [Chart](https://www.tradingview.com/chart/?symbol=NMZ) | Nuveen Municipal High Income Opportunity Fund | NMZ |
+| 39 | 67 | $29.01 | [Chart](https://www.tradingview.com/chart/?symbol=QID) | ProShares UltraShort QQQ | QID |
+| 39 | 65 | $10.68 | [Chart](https://www.tradingview.com/chart/?symbol=MYI) | BLACKROCK MUNIYIELD QUALITY FUND III, INC. | MYI |
+| 38 | 64 | $12.01 | [Chart](https://www.tradingview.com/chart/?symbol=NVG) | Nuveen AMT-Free Municipal Credit Income Fund | NVG |
 
 ## **Methodology**
 
